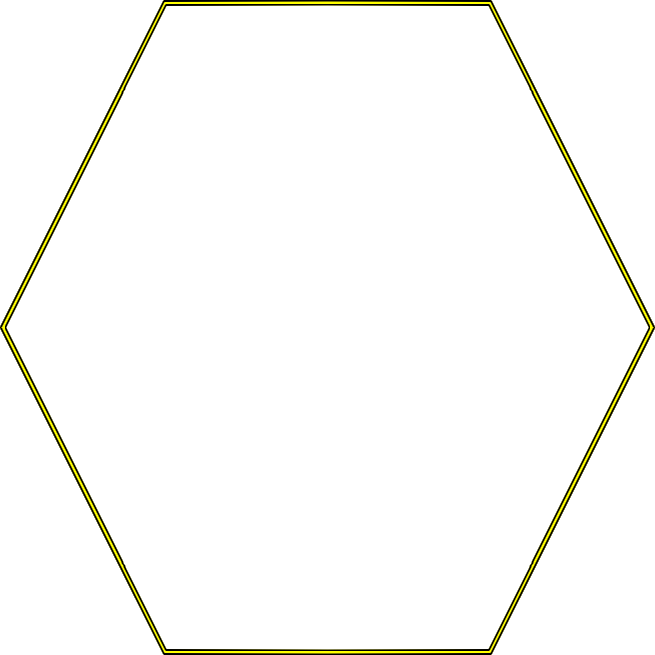
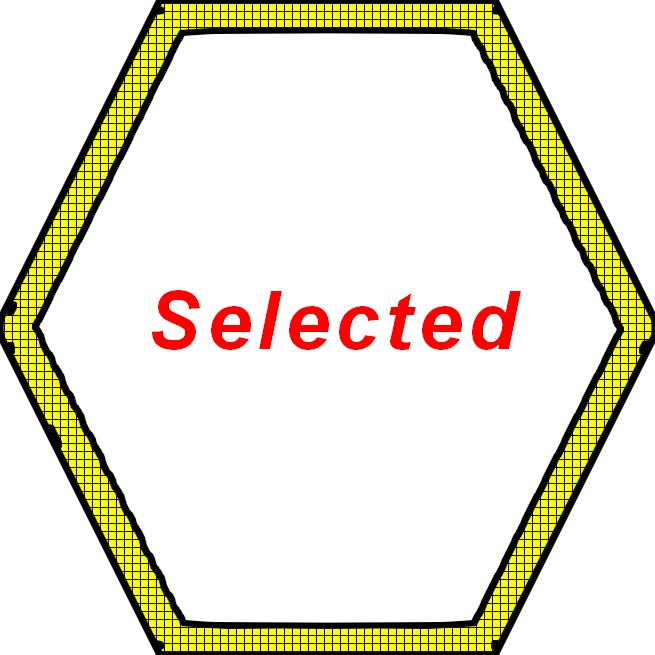
Selection et deselection case OK git add .git add .! (trop stylé, meme si les sprites sont pas ouf...)

Changed region(s): [[0.0, 0.0, 1.0, 1.0], [0.2137, 0.4275, 0.7939, 0.5496]]

diff --git a/src/ContextGlobal.cpp b/src/ContextGlobal.cpp
@@ -147,23 +147,41 @@ void ContextGlobal::calculCaseOver()
         _caseOver = _carte->getCaseToCoord(mousePosFloat);
         // Set le sprite dans le manager
         _manager->setSpriteCaseOver(_caseOver->getPosition());
-        _manager->setSpriteCaseSelectionnee(_caseOver->getPosition());
+    }
+}
+
+/**
+ * @brief Set la case selectionnee en fct de la caseOverF
+ *
+ * @param bool - *reset = false* 
+ */
+void ContextGlobal::setCaseSelectionnee(bool reset)
+{
+    if (reset)
+        _caseSelectionnee = nullptr;
+    else
+    {
+        _caseSelectionnee = _caseOver;
+        _manager->setSpriteCaseSelectionnee(_caseSelectionnee->getPosition());
     }
 }
 
 /**
  * @brief Actualise le context en fonction de l'event souris
- *
+ * @details Bouton gauche -> selection case; Bouton droit sur une case déjà selectionnée -> deselection case
  */
 void ContextGlobal::clickSouris()
 {
-
-    if (Mouse::isButtonPressed(Mouse::Left))
-    {
+    // Selection case
+    if (Mouse::isButtonPressed(Mouse::Left) &&
+        _caseOver != _caseSelectionnee)
+    { //  bouton gauche souris et changement de case selectionnee
         setCaseSelectionnee();
-    }
-    else if (Mouse::isButtonPressed(Mouse::Right))
-    {
+        cerr << "case select" << endl;
+    } // Deselection case
+    else if (Mouse::isButtonPressed(Mouse::Right) &&
+             _caseOver == _caseSelectionnee)
+    { // Test bouton droit souris et caseOver est bien celle selectionnee
         setCaseSelectionnee(true);
     }
 }

diff --git a/include/ContextGlobal.hpp b/include/ContextGlobal.hpp
@@ -112,15 +112,5 @@ inline void ContextGlobal::setIsRun(bool run) { _isRun = run; }
 inline void ContextGlobal::setTailleReference(float tailleCaseMap) { _tailleReference = tailleCaseMap; }
 inline void ContextGlobal::setScaleReference(float scaleCaseMap) { _scaleReference = scaleCaseMap; }
 inline void ContextGlobal::setCaseOver(CaseMap *caseOver) { _caseOver = caseOver; }
-inline void ContextGlobal::setCaseSelectionnee(bool reset)
-{
-    if (reset)
-        _caseSelectionnee = nullptr;
-    else
-    {
-        _caseSelectionnee = _caseOver;
-        cerr << "Case selectionee"<<endl;
-    }
-}
 
 #endif

diff --git a/src/Manager.cpp b/src/Manager.cpp
@@ -122,7 +122,6 @@ void Manager::dessinerOverlayMap()
         contextGlobal->dessinerFenetre(_spriteCaseSelectionnee);
 }
 
-
 void Manager::update()
 {
 }
@@ -151,7 +150,6 @@ void Manager::run()
         while (contextGlobal->getPollEvent())
         { // Actualise le contexte seulement quand il ya une evenement
             contextGlobal->update();
-      
         }
         update();
         dessiner();
